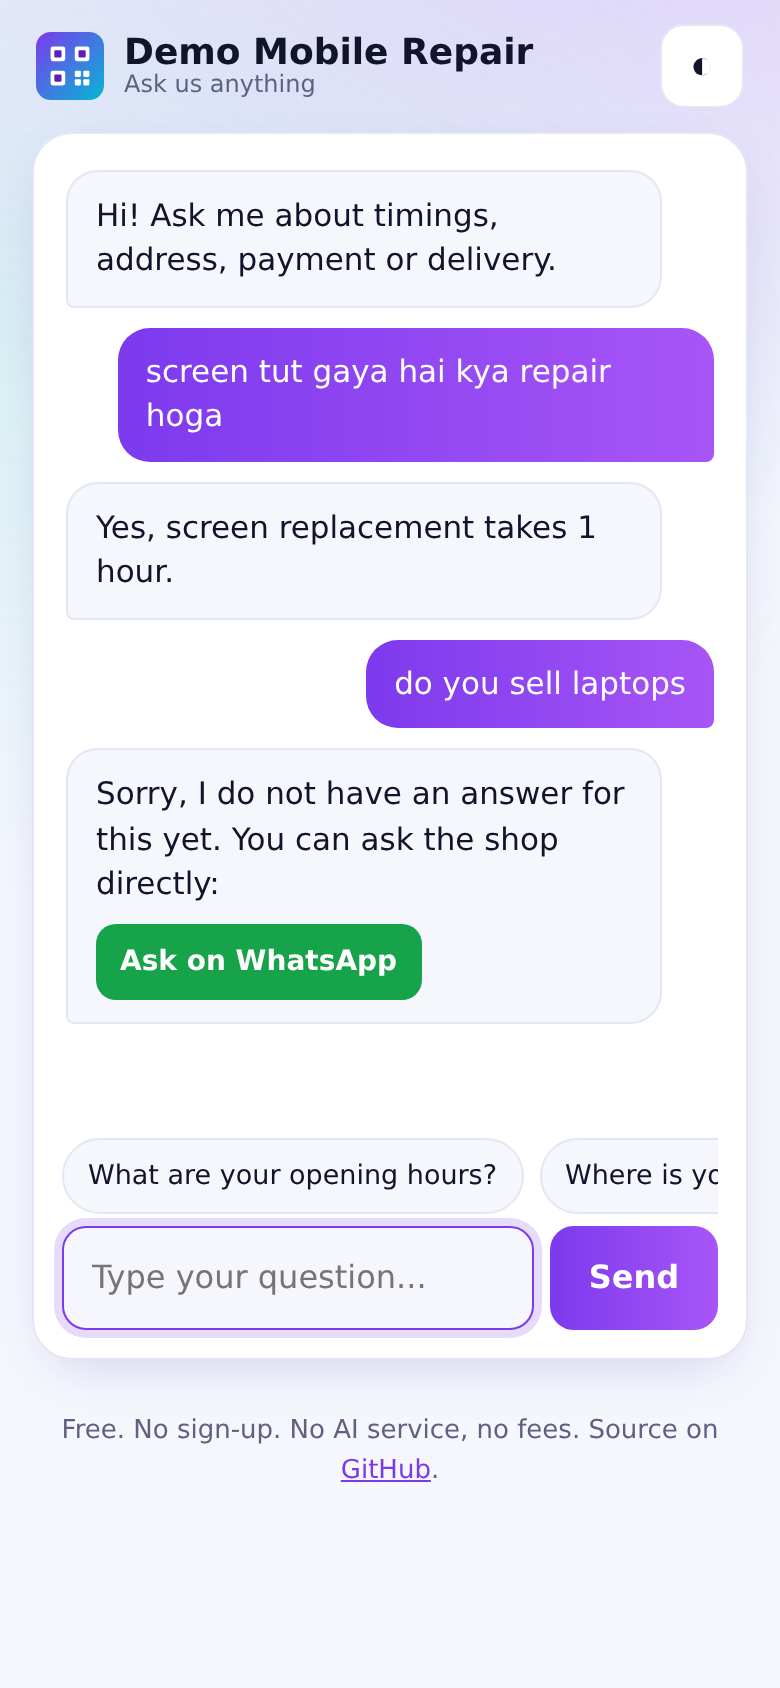
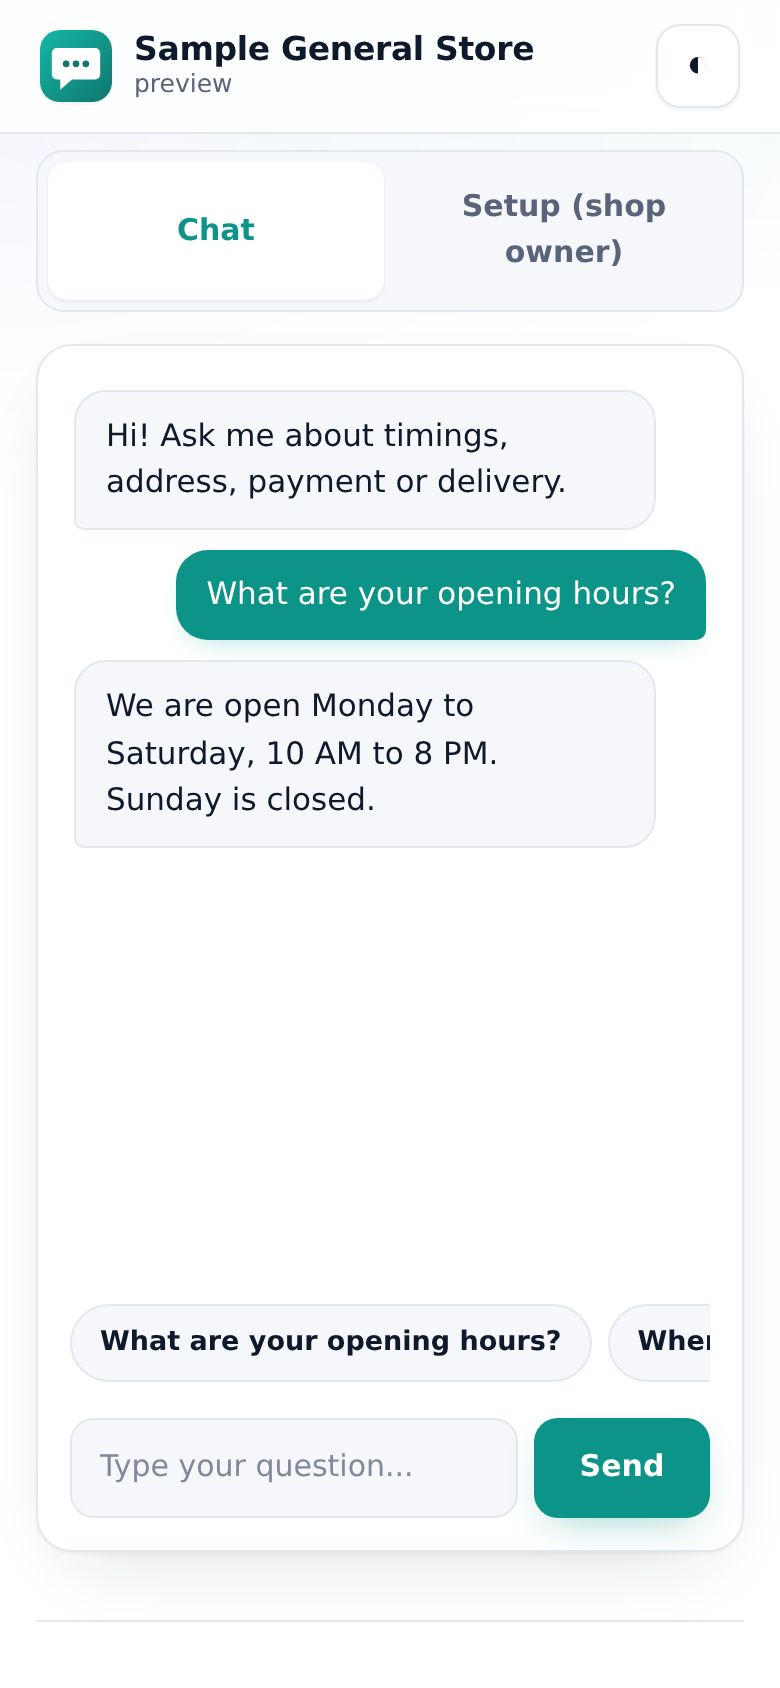
Premium redesign: refined design system, refreshed screenshots

diff --git a/style.css b/style.css
@@ -1,49 +1,80 @@
-:root{--bg:#f6f7fd;--card:#fff;--text:#12142b;--muted:#5d6280;--line:#e3e6f5;--accent:#7c3aed;--accent2:#06b6d4;--accent-ink:#fff;--danger:#d92d4b;--ok:#0f9d6b;--shadow:0 10px 30px -12px rgba(60,50,160,.25)}
-[data-theme=dark]{--bg:#0b0d1a;--card:#141830;--text:#eef0ff;--muted:#a3a9cc;--line:#262c52;--accent:#8b7dff;--accent2:#2dd4bf;--accent-ink:#0b0d1a;--danger:#ff6b86;--ok:#34d399;--shadow:0 10px 30px -12px rgba(0,0,0,.6)}
+:root{
+--bg:#ffffff;--soft:#f5f7fa;--card:#ffffff;--text:#0e1a2c;--muted:#59647a;
+--line:#e3e7ef;--line-strong:#ccd3df;--danger:#dc2626;--danger-ring:rgba(220,38,38,.14);--ok:#0d9d6c;
+--shadow-sm:0 1px 2px rgba(14,26,44,.06);--shadow:0 1px 2px rgba(14,26,44,.05),0 16px 40px -20px rgba(14,26,44,.18);
+--r-lg:18px;--r-md:12px;--r-sm:10px;
+--accent:#0d9488;--accent-solid:#0d9488;--accent-solid-hover:#0f766e;--accent-ink:#ffffff;--accent-soft:rgba(13,148,136,.07);--accent-line:rgba(13,148,136,.24);--ring:rgba(13,148,136,.16);--accent-shadow:rgba(13,148,136,.42);--accent-glow:rgba(13,148,136,.055);--accent-glow2:rgba(79,70,229,.04);
+}
+[data-theme=dark]{
+--bg:#0a101d;--soft:#0f1830;--card:#101a2e;--text:#e9edf7;--muted:#98a4bd;
+--line:#1f2b47;--line-strong:#2d3d61;--danger:#f87171;--danger-ring:rgba(248,113,113,.22);--ok:#34d399;
+--shadow-sm:0 1px 2px rgba(0,0,0,.4);--shadow:0 1px 2px rgba(0,0,0,.35),0 20px 44px -20px rgba(0,0,0,.6);
+--accent:#2dd4bf;--accent-solid:#14b8a6;--accent-solid-hover:#2dd4bf;--accent-ink:#06231f;--accent-soft:rgba(45,212,191,.12);--accent-line:rgba(45,212,191,.32);--ring:rgba(45,212,191,.25);--accent-shadow:rgba(20,184,166,.5);--accent-glow:rgba(20,184,166,.09);--accent-glow2:rgba(99,102,241,.07);
+}
 *{box-sizing:border-box}
-html{-webkit-text-size-adjust:100%}
-body{margin:0;background:var(--bg);color:var(--text);font:16px/1.5 system-ui,-apple-system,"Segoe UI",Roboto,"Noto Sans","Noto Sans Devanagari",sans-serif;min-height:100vh}
-body:before{content:"";position:fixed;inset:0;z-index:-1;background:radial-gradient(600px 300px at 90% -5%,rgba(124,58,237,.18),transparent),radial-gradient(500px 280px at -5% 20%,rgba(45,212,191,.14),transparent)}
-.top{display:flex;justify-content:space-between;align-items:center;padding:12px 18px;max-width:1080px;margin:0 auto}
-.brand{display:flex;gap:10px;align-items:center}
-.brand div{display:flex;flex-direction:column;line-height:1.1}
-.brand b{font-size:18px}.brand span{font-size:12px;color:var(--muted)}
-.icon-btn{border:1px solid var(--line);background:var(--card);color:var(--text);width:42px;height:42px;border-radius:12px;font-size:20px;cursor:pointer}
-.wrap{max-width:1080px;margin:0 auto;padding:0 16px 40px}
-.hero{padding:14px 2px 18px}
-.hero h1{font-size:clamp(26px,5.5vw,40px);line-height:1.15;margin:0 0 8px;letter-spacing:-.02em}
-.hero h1 em{font-style:normal;background:linear-gradient(90deg,var(--accent),var(--accent2));-webkit-background-clip:text;background-clip:text;color:transparent}
-.hero p{margin:0;color:var(--muted);max-width:620px}
-.grid{display:grid;grid-template-columns:1fr;gap:16px}
-@media(min-width:900px){.grid{grid-template-columns:1fr 420px;align-items:start}.preview{position:sticky;top:12px}}
-.card{background:var(--card);border:1px solid var(--line);border-radius:20px;padding:20px;box-shadow:var(--shadow)}
-.card h2{font-size:17px;margin:0 0 10px}.mt{margin-top:22px!important}
-label{display:block;font-weight:600;font-size:14px;margin:14px 0 6px}
-label small{font-weight:400;color:var(--muted)}
-input[type=text]{width:100%;padding:13px 14px;border-radius:12px;border:1.5px solid var(--line);background:var(--bg);color:var(--text);font:inherit;outline:none;transition:border .15s,box-shadow .15s}
-input[type=text]:focus{border-color:var(--accent);box-shadow:0 0 0 4px rgba(124,58,237,.18)}
-input.bad{border-color:var(--danger)}
-.err{color:var(--danger);font-size:13px;min-height:0;margin-top:4px}
-.two{display:grid;grid-template-columns:1fr;gap:0 12px}@media(min-width:560px){.two{grid-template-columns:1fr 1fr}}
-.styles{display:flex;gap:10px;flex-wrap:wrap}
-.sty{display:flex;align-items:center;gap:8px;padding:9px 14px 9px 9px;border-radius:12px;border:1.5px solid var(--line);background:var(--bg);color:var(--text);font:inherit;font-weight:600;cursor:pointer}
-.sty i{width:26px;height:26px;border-radius:8px;display:block}
-.sty[aria-pressed=true]{border-color:var(--accent);box-shadow:0 0 0 3px rgba(124,58,237,.2)}
-.chk{display:flex;gap:8px;align-items:center;font-weight:500;margin-top:18px}
-.chk input{width:18px;height:18px;accent-color:var(--accent)}
-.notice{margin-top:16px;padding:12px 14px;border-radius:12px;background:rgba(124,58,237,.1);font-size:14px;color:var(--text);border:1px solid rgba(124,58,237,.25)}
-.stage{position:relative;background:var(--bg);border-radius:16px;border:1px dashed var(--line);padding:10px;display:flex;justify-content:center;min-height:200px}
-.stage canvas{width:100%;max-width:340px;height:auto;border-radius:12px;display:none;box-shadow:0 8px 24px -10px rgba(0,0,0,.35)}
-.stage.ready canvas{display:block}.stage.ready .empty{display:none}
-.empty{align-self:center;text-align:center;color:var(--muted);padding:40px 10px}
-.actions{display:grid;grid-template-columns:1fr 1fr 1fr;gap:10px;margin-top:14px}
-.btn{padding:13px 12px;border-radius:12px;border:1.5px solid var(--line);background:var(--card);color:var(--text);font:inherit;font-weight:600;cursor:pointer;min-height:48px}
-.btn.primary{grid-column:1/-1;background:linear-gradient(90deg,var(--accent),#a855f7);color:#fff;border:0}
-.btn:disabled{opacity:.45;cursor:not-allowed}
-.btn:not(:disabled):active{transform:scale(.98)}
-.toast{min-height:22px;margin-top:10px;font-size:14px;color:var(--ok);font-weight:600;text-align:center}
-.how{margin-top:10px;font-size:14px;color:var(--muted)}.how summary{cursor:pointer;font-weight:600;color:var(--text)}
-footer{text-align:center;color:var(--muted);font-size:13px;margin-top:26px}footer a{color:var(--accent)}
-:focus-visible{outline:3px solid var(--accent);outline-offset:2px}
+html{-webkit-text-size-adjust:100%;scroll-behavior:smooth}
+body{margin:0;background:var(--bg);color:var(--text);font:16px/1.55 ui-sans-serif,system-ui,-apple-system,"Segoe UI",Roboto,"Noto Sans","Noto Sans Devanagari",sans-serif;min-height:100vh;-webkit-font-smoothing:antialiased;text-rendering:optimizeLegibility}
+body:before{content:"";position:fixed;inset:0;z-index:-1;pointer-events:none;background:radial-gradient(880px 340px at 85% -8%,var(--accent-glow),transparent 70%),radial-gradient(640px 300px at -8% 6%,var(--accent-glow2),transparent 70%)}
+::selection{background:var(--accent-soft)}
+@keyframes rise{from{opacity:0;transform:translateY(14px)}to{opacity:1;transform:none}}
+@media(prefers-reduced-motion:reduce){*,*:before,*:after{animation:none!important;transition:none!important;scroll-behavior:auto!important}}
+.top{position:sticky;top:0;z-index:20;display:flex;justify-content:space-between;align-items:center;padding:12px 20px;max-width:1120px;margin:0 auto;background:color-mix(in srgb,var(--bg) 82%,transparent);backdrop-filter:blur(14px) saturate(1.4);-webkit-backdrop-filter:blur(14px) saturate(1.4);border-bottom:1px solid var(--line)}
+@supports not (background:color-mix(in srgb,red 50%,blue)){.top{background:var(--bg)}}
+.brand{display:flex;gap:11px;align-items:center;min-width:0}
+.brand img{width:36px;height:36px;border-radius:10px;box-shadow:var(--shadow-sm)}
+.brand div{display:flex;flex-direction:column;line-height:1.15;min-width:0}
+.brand b{font-size:16.5px;font-weight:800;letter-spacing:-.01em;white-space:nowrap;overflow:hidden;text-overflow:ellipsis}
+.brand span{font-size:12.5px;color:var(--muted);white-space:nowrap;overflow:hidden;text-overflow:ellipsis}
+.icon-btn{border:1px solid var(--line);background:var(--card);color:var(--text);width:42px;height:42px;border-radius:12px;font-size:19px;cursor:pointer;display:grid;place-items:center;transition:border-color .15s,transform .12s,box-shadow .18s;box-shadow:var(--shadow-sm);flex:none}
+.icon-btn:hover{border-color:var(--accent);color:var(--accent);transform:translateY(-1px)}
+.icon-btn:active{transform:scale(.94)}
+.wrap{max-width:1120px;margin:0 auto;padding:0 18px 48px}
+.hero{padding:30px 2px 22px;animation:rise .5s cubic-bezier(.2,.7,.3,1) both}
+.hero h1{font-size:clamp(29px,5.6vw,42px);line-height:1.08;margin:0 0 10px;letter-spacing:-.033em;font-weight:800}
+.hero h1 em{font-style:normal;color:var(--accent)}
+.hero p{margin:0;color:var(--muted);max-width:640px;font-size:16.5px}
+.grid{display:grid;grid-template-columns:1fr;gap:18px}
+@media(min-width:920px){.grid{grid-template-columns:minmax(0,1fr) 430px;align-items:start}.preview,.side{position:sticky;top:76px}}
+.card{background:var(--card);border:1px solid var(--line);border-radius:var(--r-lg);padding:22px;box-shadow:var(--shadow);animation:rise .5s cubic-bezier(.2,.7,.3,1) both}
+.card:nth-of-type(2){animation-delay:.06s}.card:nth-of-type(3){animation-delay:.12s}.card:nth-of-type(4){animation-delay:.18s}
+.card h2{font-size:16px;margin:0 0 12px;font-weight:800;letter-spacing:-.01em;display:flex;align-items:center;gap:8px}
+.card h2 small{font-weight:500;color:var(--muted);font-size:12.5px}
+.mt{margin-top:24px!important}
+label{display:block;font-weight:650;font-size:13.5px;margin:15px 0 6px;letter-spacing:.002em}
+label small{font-weight:500;color:var(--muted)}
+input[type=text],input[type=date],input[type=file],textarea,select{width:100%;padding:12px 14px;border-radius:var(--r-md);border:1.5px solid var(--line);background:var(--soft);color:var(--text);font:inherit;font-size:15px;outline:none;transition:border-color .15s,box-shadow .18s,background .15s;min-height:47px}
+input::placeholder,textarea::placeholder{color:var(--muted);opacity:.75}
+input[type=text]:hover,textarea:hover,select:hover{border-color:var(--line-strong)}
+input[type=text]:focus,input[type=date]:focus,textarea:focus,select:focus{border-color:var(--accent);box-shadow:0 0 0 4px var(--ring);background:var(--card)}
+input.bad,textarea.bad{border-color:var(--danger)!important;box-shadow:0 0 0 4px var(--danger-ring)}
+.err{color:var(--danger);font-size:13px;min-height:0;margin-top:5px;font-weight:550}
+.two{display:grid;grid-template-columns:1fr;gap:0 14px}@media(min-width:560px){.two{grid-template-columns:1fr 1fr}}
+.chk{display:flex;gap:9px;align-items:center;font-weight:550;margin-top:18px;font-size:14px;cursor:pointer}
+.chk input{width:18px;height:18px;accent-color:var(--accent);cursor:pointer}
+.notice{margin-top:16px;padding:13px 15px;border-radius:var(--r-md);background:var(--accent-soft);font-size:14px;line-height:1.5;color:var(--text);border:1px solid var(--accent-line)}
+.btn{padding:12px 16px;border-radius:var(--r-md);border:1.5px solid var(--line);background:var(--card);color:var(--text);font:inherit;font-weight:650;font-size:15px;cursor:pointer;min-height:48px;box-shadow:var(--shadow-sm);transition:transform .12s ease,box-shadow .18s ease,border-color .15s,background .15s,color .15s,opacity .15s;display:inline-flex;align-items:center;justify-content:center;gap:8px}
+.btn:hover:not(:disabled){transform:translateY(-1px);border-color:var(--line-strong);box-shadow:0 8px 18px -10px rgba(15,28,46,.3)}
+.btn.primary{background:var(--accent-solid);color:var(--accent-ink);border-color:transparent;box-shadow:0 8px 20px -8px var(--accent-shadow)}
+.btn.primary:hover:not(:disabled){background:var(--accent-solid-hover);border-color:transparent;box-shadow:0 12px 26px -10px var(--accent-shadow)}
+.btn:not(:disabled):active{transform:scale(.97)}
+.btn:disabled{opacity:.42;cursor:not-allowed;box-shadow:none}
+.btn.big{width:100%;font-size:16.5px;min-height:54px;font-weight:750}
+.toast{min-height:22px;margin-top:10px;font-size:14px;color:var(--ok);font-weight:650;text-align:center}
+.how{margin-top:14px;font-size:14px;color:var(--muted);border-top:1px solid var(--line);padding-top:12px}
+.how summary{cursor:pointer;font-weight:650;color:var(--text);list-style:none;display:flex;align-items:center;gap:8px}
+.how summary:before{content:"";width:6px;height:6px;border-right:2px solid var(--muted);border-bottom:2px solid var(--muted);transform:rotate(-45deg);transition:transform .18s}
+.how[open] summary:before{transform:rotate(45deg)}
+.how summary::-webkit-details-marker{display:none}
+.how ol{margin:10px 0 6px;padding-left:20px;display:grid;gap:6px}
+.how p{margin:10px 0 0}
+.how a,.notice a{color:var(--accent)}
+footer{text-align:center;color:var(--muted);font-size:13.5px;margin-top:34px;padding-top:22px;border-top:1px solid var(--line)}
+footer a{color:var(--accent);text-decoration:none;font-weight:650}
+footer a:hover{text-decoration:underline;text-underline-offset:3px}
+:focus-visible{outline:3px solid var(--ring);outline-offset:2px}
+.stack{display:grid;gap:18px}
+.row{display:flex;gap:10px;flex-wrap:wrap;margin-top:12px}
+.row .btn{flex:1;min-width:140px}
 
 [hidden]{display:none!important}
+

diff --git a/bot.css b/bot.css
@@ -1,29 +1,43 @@
-.stack{display:grid;gap:16px}.tabs{display:flex;gap:8px;margin:6px 0 14px}
-.tabs button{flex:1;padding:12px;border-radius:12px;border:1.5px solid var(--line);background:var(--card);color:var(--text);font:inherit;font-weight:700;cursor:pointer}
-.tabs button[aria-selected=true]{background:linear-gradient(90deg,var(--accent),#a855f7);color:#fff;border:0}
+/* Shop FAQ Bot extras */
+.tabs{display:flex;gap:6px;margin:8px 0 16px;padding:5px;background:var(--soft);border:1px solid var(--line);border-radius:14px}
+.tabs button{flex:1;padding:11px;border-radius:10px;border:0;background:transparent;color:var(--muted);font:inherit;font-weight:750;font-size:15px;cursor:pointer;transition:background .18s,color .15s,box-shadow .2s}
+.tabs button:hover{color:var(--text)}
+.tabs button[aria-selected=true]{background:var(--card);color:var(--accent);box-shadow:var(--shadow-sm)}
 .tabs.hidden{display:none}
-.chat{display:flex;flex-direction:column;height:min(72vh,680px);min-height:420px;padding:14px}
-.log{flex:1;overflow-y:auto;display:flex;flex-direction:column;gap:10px;padding:4px 2px 10px;scroll-behavior:smooth}
-.m{max-width:85%;padding:11px 14px;border-radius:16px;font-size:15.5px;line-height:1.45;white-space:pre-wrap;word-wrap:break-word;animation:pop .18s ease-out}
-@keyframes pop{from{opacity:0;transform:translateY(6px)}to{opacity:1;transform:none}}
-.m.bot{align-self:flex-start;background:var(--bg);border:1px solid var(--line);border-bottom-left-radius:4px}
-.m.me{align-self:flex-end;background:linear-gradient(90deg,var(--accent),#a855f7);color:#fff;border-bottom-right-radius:4px}
-.m a{color:inherit;text-decoration:underline}
-.m .opts{display:flex;flex-direction:column;gap:6px;margin-top:8px}
-.m .opt,.m .wabtn{display:inline-block;padding:9px 12px;border-radius:10px;border:1px solid var(--line);background:var(--card);color:var(--text);font:inherit;font-size:14px;cursor:pointer;text-align:left;text-decoration:none}
-.m .wabtn{background:#16a34a;color:#fff;border:0;font-weight:700;text-align:center;margin-top:8px}
-.typing{display:flex;gap:4px;padding:14px}.typing i{width:7px;height:7px;border-radius:50%;background:var(--muted);animation:b 1s infinite}.typing i:nth-child(2){animation-delay:.15s}.typing i:nth-child(3){animation-delay:.3s}@keyframes b{50%{transform:translateY(-4px);opacity:.5}}
-.chips{display:flex;gap:8px;overflow-x:auto;padding:6px 0;scrollbar-width:none}.chips::-webkit-scrollbar{display:none}.chips .chip{flex:none;padding:8px 12px;border-radius:999px;border:1px solid var(--line);background:var(--bg);color:var(--text);font:inherit;font-size:13.5px;cursor:pointer}
-.send{display:flex;gap:8px}.send input{flex:1}.send .btn{min-width:84px;grid-column:auto}
-input[type=text],textarea{width:100%;padding:13px 14px;border-radius:12px;border:1.5px solid var(--line);background:var(--bg);color:var(--text);font:inherit;outline:none}
+.chat{display:flex;flex-direction:column;height:min(72vh,680px);min-height:420px;padding:16px;gap:4px}
+.log{flex:1;overflow-y:auto;display:flex;flex-direction:column;gap:10px;padding:6px 2px 12px;scroll-behavior:smooth}
+.m{max-width:85%;padding:11px 15px;border-radius:16px;font-size:15.5px;line-height:1.5;white-space:pre-wrap;word-wrap:break-word;animation:pop .2s cubic-bezier(.2,.7,.3,1)}
+@keyframes pop{from{opacity:0;transform:translateY(8px) scale(.98)}to{opacity:1;transform:none}}
+.m.bot{align-self:flex-start;background:var(--soft);border:1px solid var(--line);border-bottom-left-radius:5px}
+.m.me{align-self:flex-end;background:var(--accent-solid);color:var(--accent-ink);border-bottom-right-radius:5px;box-shadow:0 6px 14px -8px var(--accent-shadow)}
+.m a{color:inherit;text-decoration:underline;text-underline-offset:2px}
+.m .opts{display:flex;flex-direction:column;gap:6px;margin-top:9px}
+.m .opt,.m .wabtn{display:inline-block;padding:9px 13px;border-radius:10px;border:1px solid var(--line);background:var(--card);color:var(--text);font:inherit;font-size:14px;font-weight:600;cursor:pointer;text-align:left;text-decoration:none;transition:border-color .15s,color .15s}
+.m .opt:hover{border-color:var(--accent);color:var(--accent)}
+.m .wabtn{background:#16a34a;color:#fff;border:0;font-weight:750;text-align:center;margin-top:9px}
+.m .wabtn:hover{background:#15803d}
+.typing{display:flex;gap:5px;padding:15px}
+.typing i{width:7px;height:7px;border-radius:50%;background:var(--muted);animation:bob 1s infinite}
+.typing i:nth-child(2){animation-delay:.15s}.typing i:nth-child(3){animation-delay:.3s}
+@keyframes bob{50%{transform:translateY(-4px);opacity:.5}}
+.chips{display:flex;gap:8px;overflow-x:auto;padding:8px 0;scrollbar-width:none}
+.chips::-webkit-scrollbar{display:none}
+.chips .chip{flex:none;padding:8px 14px;border-radius:999px;border:1.5px solid var(--line);background:var(--soft);color:var(--text);font:inherit;font-size:13.5px;font-weight:600;cursor:pointer;transition:border-color .15s,color .15s}
+.chips .chip:hover{border-color:var(--accent);color:var(--accent)}
+.send{display:flex;gap:8px;margin-top:6px}
+.send input{flex:1}
+.send .btn{min-width:88px}
 textarea{min-height:84px;resize:vertical}
-input:focus,textarea:focus{border-color:var(--accent);box-shadow:0 0 0 4px rgba(124,58,237,.18)}
-.hint{color:var(--muted);font-size:14px;margin:0 0 12px}
-.faqs{display:grid;gap:12px}.faq{border:1px solid var(--line);background:var(--bg);border-radius:14px;padding:12px;display:grid;gap:8px}
-.faq label{margin:0;font-size:12px;color:var(--muted)}.faq .top2{display:flex;justify-content:space-between;align-items:center}.faq .n{font-weight:700;font-size:13px;color:var(--muted)}
-.rm{border:0;background:transparent;color:var(--danger);font:inherit;font-weight:600;cursor:pointer}
-.faq .bad{border-color:var(--danger)}
-.row{display:flex;gap:10px;flex-wrap:wrap;margin-top:12px}.row .btn{flex:1;min-width:140px;grid-column:auto}
-.btn.primary{grid-column:auto}
-.unans{margin:8px 0;padding-left:18px;font-size:14px;color:var(--muted)}h3.sm{font-size:15px;margin:16px 0 4px}
-@media(max-width:560px){.m{max-width:92%}.chat{height:calc(100vh - 230px);min-height:380px}}
+.hint{color:var(--muted);font-size:14px;margin:0 0 12px;line-height:1.55}
+.faqs{display:grid;gap:12px}
+.faq{border:1px solid var(--line);background:var(--soft);border-radius:var(--r-md);padding:14px;display:grid;gap:6px;transition:border-color .15s}
+.faq:hover{border-color:var(--line-strong)}
+.faq label{margin:2px 0 0;font-size:12px;color:var(--muted);font-weight:700}
+.faq .top2{display:flex;justify-content:space-between;align-items:center}
+.faq .n{font-weight:800;font-size:12.5px;color:var(--accent);letter-spacing:.04em;text-transform:uppercase}
+.faq .rm{border:0;background:transparent;color:var(--danger);font:inherit;font-weight:700;cursor:pointer;padding:5px 8px;border-radius:8px}
+.faq .rm:hover{background:var(--danger-ring)}
+.unans{margin:8px 0;padding-left:19px;font-size:14px;color:var(--muted);display:grid;gap:4px}
+h3.sm{font-size:15px;margin:18px 0 4px;font-weight:750}
+h3.sm small{font-weight:500;color:var(--muted)}
+@media(max-width:560px){.m{max-width:92%}.chat{height:calc(100vh - 240px);min-height:380px}}

diff --git a/index.html b/index.html
@@ -5,7 +5,7 @@
 <meta name="viewport" content="width=device-width,initial-scale=1,viewport-fit=cover">
 <title>Shop FAQ Bot - free chatbot for your shop</title>
 <meta name="description" content="Add your shop's questions and answers. Get a chatbot link to share with customers on WhatsApp or Instagram. Free, no AI fees, works in your browser.">
-<meta name="theme-color" content="#7c3aed">
+<meta name="theme-color" content="#0d9488">
 <meta property="og:title" content="Shop FAQ Bot">
 <meta property="og:description" content="Free FAQ chatbot for any shop. Add your answers, share one link.">
 <meta http-equiv="Content-Security-Policy" content="default-src 'self'; img-src 'self' data:; style-src 'self' 'unsafe-inline'; script-src 'self'; connect-src 'self'; base-uri 'none'; form-action 'none'">

diff --git a/sw.js b/sw.js
@@ -1,4 +1,4 @@
-const C='faq-bot-v1';
+const C='faq-bot-v2';
 const FILES=['./','index.html','style.css','bot.css','app.js','match.js','theme.js','icon.svg','manifest.webmanifest'];
 self.addEventListener('install',e=>{e.waitUntil(caches.open(C).then(c=>c.addAll(FILES)));self.skipWaiting();});
 self.addEventListener('activate',e=>{e.waitUntil(caches.keys().then(k=>Promise.all(k.filter(x=>x!==C).map(x=>caches.delete(x)))));self.clients.claim();});
